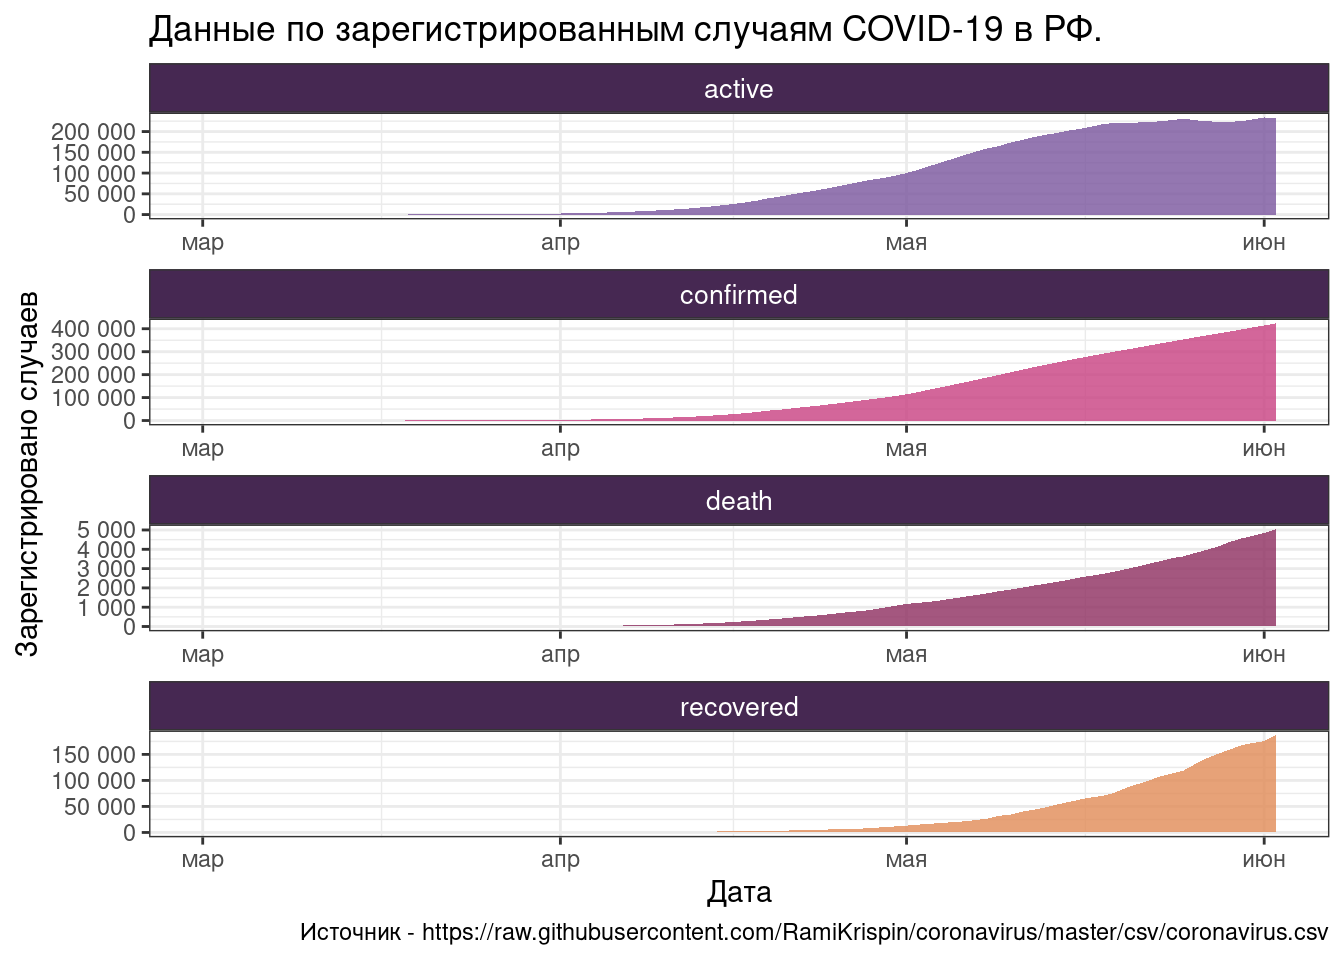
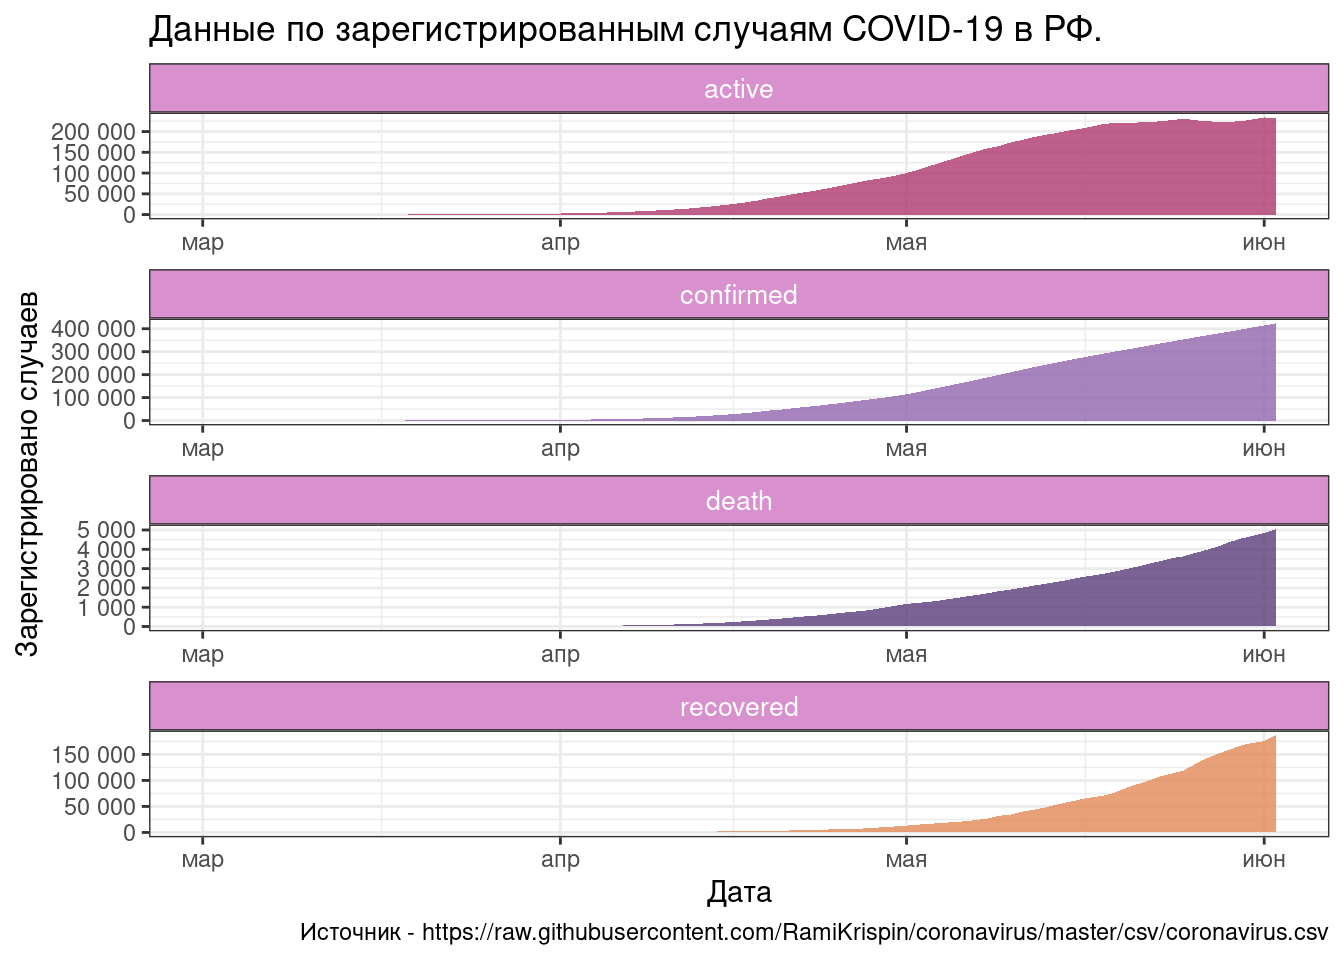
Version 0.1.0

diff --git a/content/post/2020-05-31-retrowave.ru.html b/content/post/2020-05-31-retrowave.ru.html
@@ -132,8 +132,8 @@ btwns &lt;- sapply(1:k_max, function(k) {
 
 btwns</code></pre>
 <pre><code>##  [1] -3.961759e-09  1.163524e+04  1.506682e+04  1.757879e+04  1.891287e+04
-##  [6]  1.962234e+04  2.033066e+04  2.084172e+04  2.118541e+04  2.143675e+04
-## [11]  2.175500e+04  2.195049e+04  2.207758e+04  2.226959e+04  2.241539e+04</code></pre>
+##  [6]  1.962234e+04  2.015466e+04  2.065453e+04  2.089505e+04  2.140923e+04
+## [11]  2.173892e+04  2.191240e+04  2.204597e+04  2.224038e+04  2.237442e+04</code></pre>
 <pre class="r"><code>plot(1:k_max, btwns,
      type=&quot;b&quot;,
      xlab=&quot;Количество кластеров&quot;,
@@ -185,67 +185,67 @@ knitr::kable(head(dist))</code></pre>
 <thead>
 <tr class="header">
 <th align="left">col</th>
-<th align="right">#79559E</th>
-<th align="right">#CC94CC</th>
-<th align="right">#462852</th>
-<th align="right">#C84081</th>
-<th align="right">#E18B56</th>
-<th align="right">#8D2E5F</th>
+<th align="right">#4F2144</th>
+<th align="right">#D990CE</th>
+<th align="right">#E18857</th>
+<th align="right">#9266AE</th>
+<th align="right">#AF376F</th>
+<th align="right">#5A3C7B</th>
 </tr>
 </thead>
 <tbody>
 <tr class="odd">
-<td align="left">#79559E</td>
+<td align="left">#4F2144</td>
 <td align="right">0.0000000</td>
-<td align="right">0.4472227</td>
-<td align="right">0.3991023</td>
-<td align="right">0.3385652</td>
-<td align="right">0.5392697</td>
-<td align="right">0.2987150</td>
+<td align="right">0.8798117</td>
+<td align="right">0.7034705</td>
+<td align="right">0.5595807</td>
+<td align="right">0.4220773</td>
+<td align="right">0.2417120</td>
 </tr>
 <tr class="even">
-<td align="left">#CC94CC</td>
-<td align="right">0.4472227</td>
+<td align="left">#D990CE</td>
+<td align="right">0.8798117</td>
 <td align="right">0.0000000</td>
-<td align="right">0.8275207</td>
-<td align="right">0.4434274</td>
-<td align="right">0.4720155</td>
-<td align="right">0.6347311</td>
+<td align="right">0.4689516</td>
+<td align="right">0.3472407</td>
+<td align="right">0.5360972</td>
+<td align="right">0.6821736</td>
 </tr>
 <tr class="odd">
-<td align="left">#462852</td>
-<td align="right">0.3991023</td>
-<td align="right">0.8275207</td>
+<td align="left">#E18857</td>
+<td align="right">0.7034705</td>
+<td align="right">0.4689516</td>
 <td align="right">0.0000000</td>
-<td align="right">0.5489254</td>
-<td align="right">0.7222217</td>
-<td align="right">0.2841725</td>
+<td align="right">0.4778628</td>
+<td align="right">0.3842356</td>
+<td align="right">0.6247273</td>
 </tr>
 <tr class="even">
-<td align="left">#C84081</td>
-<td align="right">0.3385652</td>
-<td align="right">0.4434274</td>
-<td align="right">0.5489254</td>
+<td align="left">#9266AE</td>
+<td align="right">0.5595807</td>
+<td align="right">0.3472407</td>
+<td align="right">0.4778628</td>
 <td align="right">0.0000000</td>
-<td align="right">0.3531921</td>
-<td align="right">0.2744550</td>
+<td align="right">0.3276905</td>
+<td align="right">0.3410477</td>
 </tr>
 <tr class="odd">
-<td align="left">#E18B56</td>
-<td align="right">0.5392697</td>
-<td align="right">0.4720155</td>
-<td align="right">0.7222217</td>
-<td align="right">0.3531921</td>
+<td align="left">#AF376F</td>
+<td align="right">0.4220773</td>
+<td align="right">0.5360972</td>
+<td align="right">0.3842356</td>
+<td align="right">0.3276905</td>
 <td align="right">0.0000000</td>
-<td align="right">0.4917773</td>
+<td align="right">0.3392748</td>
 </tr>
 <tr class="even">
-<td align="left">#8D2E5F</td>
-<td align="right">0.2987150</td>
-<td align="right">0.6347311</td>
-<td align="right">0.2841725</td>
-<td align="right">0.2744550</td>
-<td align="right">0.4917773</td>
+<td align="left">#5A3C7B</td>
+<td align="right">0.2417120</td>
+<td align="right">0.6821736</td>
+<td align="right">0.6247273</td>
+<td align="right">0.3410477</td>
+<td align="right">0.3392748</td>
 <td align="right">0.0000000</td>
 </tr>
 </tbody>
